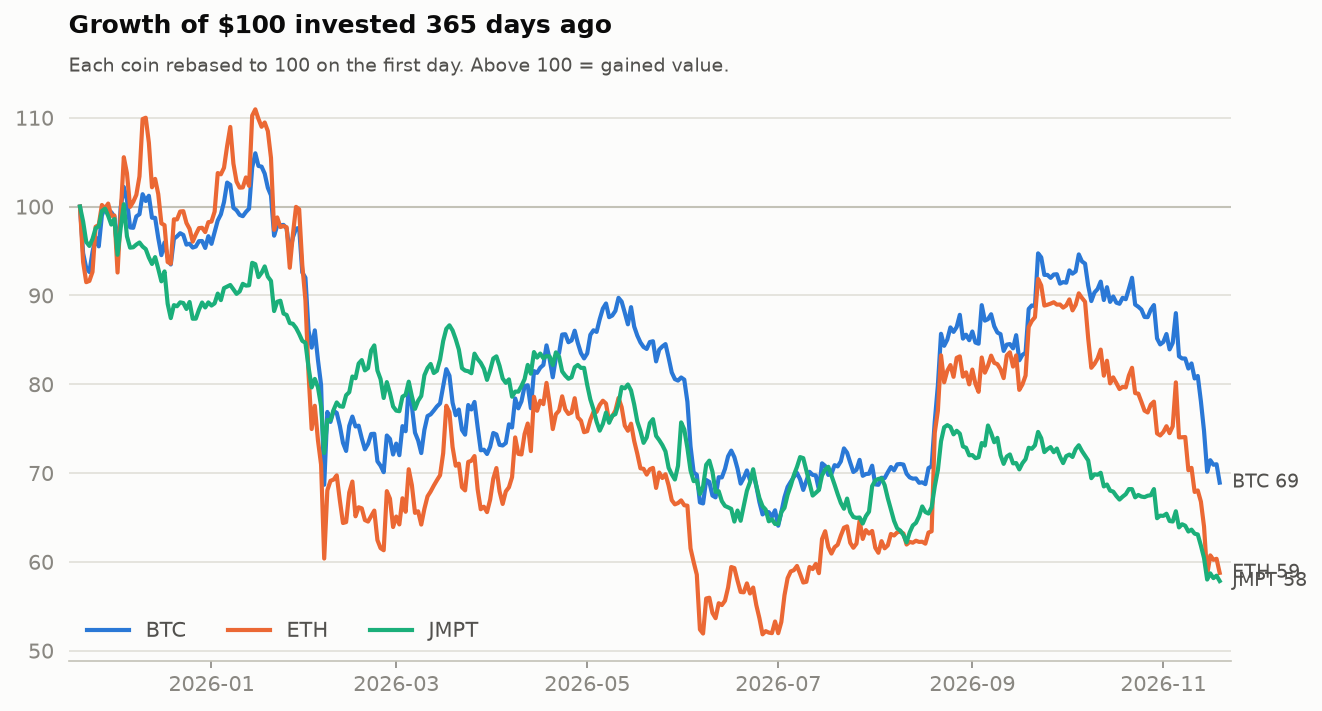
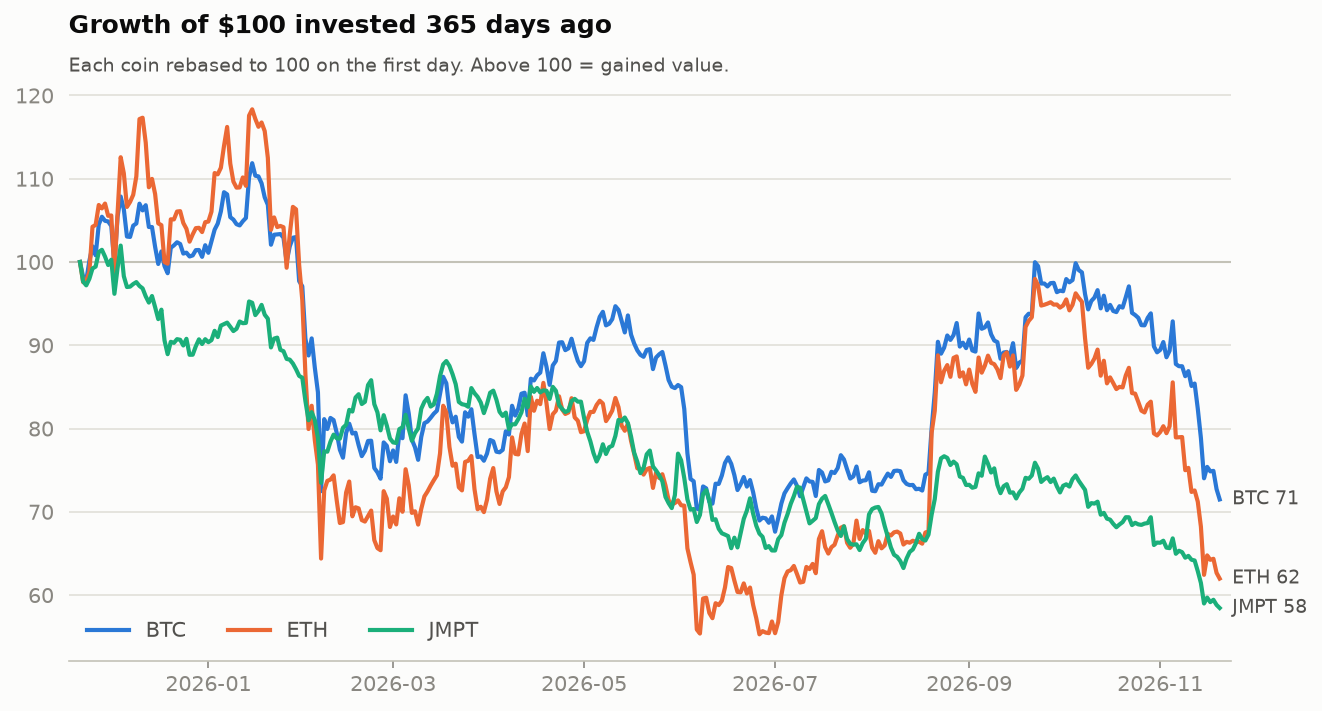
data: market update 2026-11-20

diff --git a/README.md b/README.md
@@ -9,13 +9,13 @@ The project compares two of the largest cryptocurrencies with a small-cap token:
 ## Latest stats
 
 <!-- STATS:START -->
-_Snapshot as of **2026-11-19 00:00 UTC**. Updated automatically every day._
+_Snapshot as of **2026-11-20 00:00 UTC**. Updated automatically every day._
 
 | Coin | Price | 1 day | 7 days | 30 days | 1 year | Volatility (30d) | Market cap |
 |:--|--:|--:|--:|--:|--:|--:|--:|
-| **BTC** Bitcoin | $62,997 | ▼ -2.9% | ▼ -14.8% | ▼ -23.1% | ▼ -32.2% | 45% | $1.27T |
-| **ETH** Ethereum | $1,775 | ▼ -2.6% | ▼ -13.6% | ▼ -26.2% | ▼ -43.1% | 60% | $216.97B |
-| **JMPT** JumpToken | $0.4594 | ▼ -1.0% | ▼ -8.3% | ▼ -14.5% | ▼ -43.5% | 29% | $6.78M |
+| **BTC** Bitcoin | $61,921 | ▼ -1.7% | ▼ -13.2% | ▼ -25.3% | ▼ -32.3% | 44% | $1.25T |
+| **ETH** Ethereum | $1,756 | ▼ -1.1% | ▼ -13.0% | ▼ -28.2% | ▼ -41.9% | 59% | $214.59B |
+| **JMPT** JumpToken | $0.4565 | ▼ -0.6% | ▼ -7.0% | ▼ -15.7% | ▼ -42.5% | 28% | $6.74M |
 <!-- STATS:END -->
 
 ## Charts
